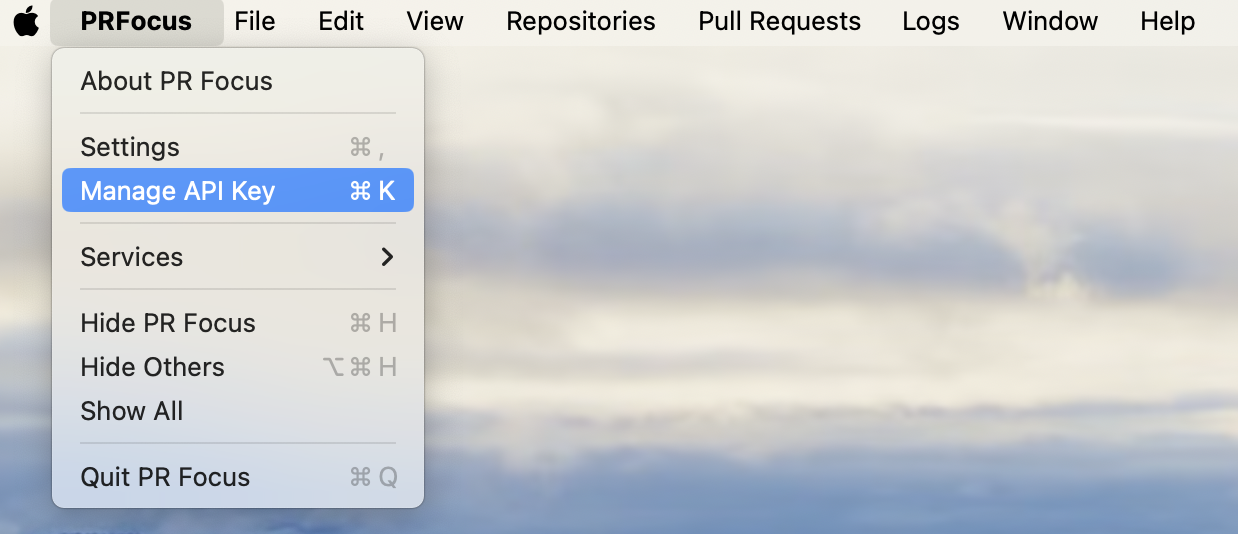
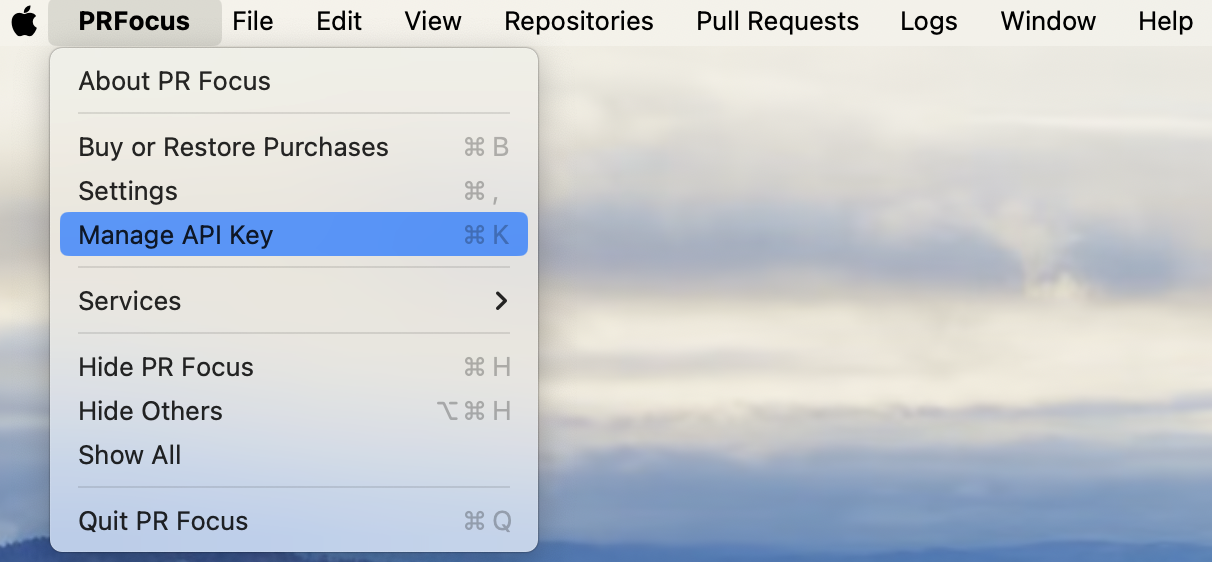
Add About page, update menus, add v0.9 release notes

diff --git a/layouts/shortcodes/blocks/new-section.html b/layouts/shortcodes/blocks/new-section.html
@@ -1,0 +1,14 @@
+{{ $col_id := .Get "color" | default .Ordinal -}}
+{{ $height := .Get "height" | default "auto"  -}}
+{{ $type   := .Get "type" | default "container" -}}
+
+<div><a id="td-block-{{ .Ordinal }}" class="td-offset-anchor"></a></div>
+<section class="row td-box td-box--{{ $col_id }} td-box--height-{{ $height }}">
+<div class="col">
+<div class="{{ $type }}">
+{{/* Do NOT remove this comment! It ends the HTML block above. See https://spec.commonmark.org/0.30/#html-blocks, 7. */}}
+{{ .Inner -}}
+</div>
+</div>
+</section>
+{{/**/ -}}

diff --git a/content/en/about/_index.md b/content/en/about/_index.md
@@ -1,0 +1,51 @@
+---
+title: About PR Focus
+linkTitle: About
+menu: {main: {weight: 10}}
+---
+
+{{% blocks/cover title="About PR Focus" height="auto" %}}
+
+PR Focus is a macOS app that makes it easy to track pull requests across repositories - without going to GitHub.
+
+{{% /blocks/cover %}}
+
+{{% blocks/new-section color="primary" %}}
+
+## Watch repositories in one place
+
+Watch incoming pull requests across multiple repositories - all in one place.
+
+* See PRs that are opened in repositories you're watching, and choose whether to **Watch** or **Ignore** them.
+* View the default *All Pull Requests* dashboard for a summary view of everything in one place.
+* Drill down into individual *Repository Dashboards* to focus in on the work in a specific repository.
+* Add individual pull requests if you don't want to watch everything that comes through a repository.
+
+{{% /blocks/new-section %}}
+
+{{% blocks/new-section %}}
+
+## Track PR progress
+
+Find out about updates to pull requests - without having to leave the app.
+
+* PRs with updates change color to let you know there's something new.
+* PR workflow *Checks*, *Commits*, *Comments*, or *Reviews* are bolded when there are updates so you can quickly scan what's new.
+* Click into a pull request to view all the relevant PR details without leaving the app. Changes since you last viewed the details have a **New** label.
+* Every workflow check, commit, comment, or review has a link to go directly to the element in GitHub. Easily view failed workflow checks, see what's new in a commit, or reply to important comments.
+* PRs that haven't been updated for a while automatically move out of your main dashboard to a special *Inactive PRs* dashboard. They get out of the way of your everyday work, but go to a dedicated dashboard so you don't forget about them.
+* PRs that are closed automatically move to the *Archived PRs* dashboard. They disappear from your main dashboard when they're no longer relevant, but you can always view the details again in their dedicated dashboard.
+
+{{% /blocks/new-section %}}
+
+{{% blocks/new-section %}}
+
+## Don't lose sight of PRs that involve you
+
+Easily see what's new in pull requests that involve you.
+
+* PRs where you're an *Assignee*, a *Reviewer*, or the *PR author* automatically appear in dedicated lists in the *All Pull Requests* dashboard and in each *Repository Dashboard*.
+* Even if you **Ignore** a PR, if you later become an *Assignee* or *Reviewer*, the pull request automatically becomes visible again in the relevant list in your dashboards.
+* Easily see when there are new workflow *Checks*, *Commits*, *Comments*, or *Reviews* that require your attention in the PRs that involve you.
+
+{{% /blocks/new-section %}}

diff --git a/content/en/docs/release-notes/_index.md b/content/en/docs/release-notes/_index.md
@@ -7,6 +7,17 @@ description: >
   Find out about updates to PR Focus.
 ---
 
+## v0.9 Build 1
+
+Release Date: July 15, 2024
+
+This release adds a free trial and paywall to PR Focus. People who want to take the app for a spin get 30 days to try it out for free before deciding it they'd like to buy it.
+
+### Enhancements
+
+- Add a free 30-day trial and the ability to unlock the unlimited access version of PR Focus
+- Add a "Buy or Restore Purchases" menu option to the PR Focus menu
+
 ## v0.8 Build 1
 
 Release date: July 8, 2024

diff --git a/CHANGELOG.md b/CHANGELOG.md
@@ -1,3 +1,14 @@
+# v0.9 Build 1
+
+Release Date: July 15, 2024
+
+This release adds a free trial and paywall to PR Focus. People who want to take the app for a spin get 30 days to try it out for free before deciding it they'd like to buy it.
+
+## Enhancements
+
+- Add a free 30-day trial and the ability to unlock the unlimited access version of PR Focus
+- Add a "Buy or Restore Purchases" menu option to the PR Focus menu
+
 # v0.8 Build 2
 
 Release date: July 8, 2024
